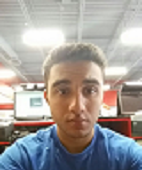
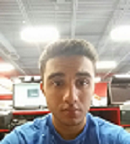
Fully implemented easter egg. Pictures change when user hovers over the image.

diff --git a/src/main/java/ca/yorku/cse2311/tab2pdf/ui/component/AboutJFrame.java b/src/main/java/ca/yorku/cse2311/tab2pdf/ui/component/AboutJFrame.java
@@ -3,12 +3,8 @@ package ca.yorku.cse2311.tab2pdf.ui.component;
 import javax.imageio.ImageIO;
 import javax.swing.*;
 
-import ca.yorku.cse2311.tab2pdf.ui.listener.AboutListener;
 
 import java.awt.*;
-import java.awt.event.ActionEvent;
-import java.awt.event.ActionListener;
-import java.awt.event.MouseAdapter;
 import java.awt.event.MouseEvent;
 import java.awt.event.MouseListener;
 import java.io.IOException;
@@ -21,13 +17,13 @@ import java.util.logging.Logger;
  * @author Marco
  * @since 2015-04-04
  */
-public class AboutJFrame extends JFrame implements MouseListener {
+public class AboutJFrame extends JFrame {
 
     private final static Logger LOG = Logger.getLogger(AboutJFrame.class.getName());
 
     private static final String[][] CONTRIBUTORS = {
             // Name                          Email                       Picture1				Picture2
-            {"Brody Atto",              "brodyatto@gmail.com",          "about/brody.jpg"		, ""},
+            {"Brody Atto",              "brodyatto@gmail.com",          "about/brody.jpg"		, "about/brody2.jpg"},
             {"Marco Pietro Cirillo",    "cirillom@my.yorku.ca",         "about/marco1.png"		, "about/marco2.png"},
             {"Deep Patel",              "deep0410@my.yorku.ca",         "about/deep1.png"		, "about/deep2.png"},
             {"Varsha Ragavendran",      "varsha_raghav@hotmail.com",    "about/varsha1.JPG"		, "about/varsha2.JPG"},
@@ -43,43 +39,42 @@ public class AboutJFrame extends JFrame implements MouseListener {
 
     public static final Dimension PICTURE_SIZE = new Dimension(150, 150);
     
-    private boolean isStoic = false;
 
     public AboutJFrame() throws HeadlessException {
 
         super("About Tab2Pdf");
-        
-        String[] smilePictures = new String[CONTRIBUTORS[3].length];
 
         getContentPane().setLayout(new GridLayout(3, 2));
         
         for (String[] row : CONTRIBUTORS) {
-            getContentPane().add(createRow(row[0], row[1], row[2])); 
-            this.isStoic = false;
+            getContentPane().add(createRow(row[0], row[1], row[2], row[3])); 
+            
         }
-        for (int i = 0; i < CONTRIBUTORS[3].length ; i++){
-        	smilePictures[i] = CONTRIBUTORS[3][i];
-        }
+     
     }
 
-    private static JPanel createRow(String name, String email, String image) {
+    private static JPanel createRow(String name, String email, String image1, String image2) {
         JPanel result = new JPanel();
+        final JLabel j;
+        final String firstImage = image1;
+        final String secondImage = image2;
 
         result.setLayout(new GridBagLayout());
 
-        JButton pic = new JButton("Failed to load image");
+        JLabel stoicFace = new JLabel("Failed to load image");
+        //JLabel happyFace = new JLabel("Failed to laod image");
         try {   // attempt to load the image of this contributor
-            pic = new JButton(new ImageIcon(ImageIO.read(ClassLoader.getSystemResource(image))));
+            stoicFace = new JLabel(new ImageIcon(ImageIO.read(ClassLoader.getSystemResource(image1))));
+            //happyFace = new JLabel(new ImageIcon(ImageIO.read(ClassLoader.getSystemResource(image2))));
         } catch (IOException e) {
-            LOG.log(Level.WARNING, "Could not set about picture "+image, e);
+            LOG.log(Level.WARNING, "Could not set about picture "+image1, e);
+            //LOG.log(Level.WARNING, "Could not set about picture "+image2, e);
+
         }
-
+        
         // Set size of picture, so they look uniform
-        pic.setMinimumSize(PICTURE_SIZE);
-        pic.setPreferredSize(PICTURE_SIZE);
-
-        // Add picture
-        result.add(pic, PIC_CONSTRAINTS);
+        stoicFace.setMinimumSize(PICTURE_SIZE);
+        stoicFace.setPreferredSize(PICTURE_SIZE);
 
         // Add name
         JLabel nameLabel = new JLabel(name);
@@ -91,48 +86,39 @@ public class AboutJFrame extends JFrame implements MouseListener {
         emailLabel.setVerticalAlignment(SwingConstants.TOP);
         result.add(emailLabel, EMAIL_CONSTRAINTS);
         
-//        MouseListener mouseClicked = new MouseListener{
-//        	@Override
-//        	public void mouseClicked(MouseEvent e) {
-//        		// TODO Auto-generated method stub
-//        		
-//        	}
-//        };
-		pic.addMouseListener(new MouseAdapter() { 
-	          public void mousePressed(MouseEvent e) { 
-	             
-	            } 
-	          });
-        return result;
+        j = stoicFace;
+        
+		j.addMouseListener(new MouseListener() { 
+			
+            public void mouseReleased(MouseEvent arg0) {}           
+            
+            public void mousePressed(MouseEvent arg0) {}            
+            
+            public void mouseExited(MouseEvent arg0) { 
+            	try {   // attempt to load the image of this contributor
+                    j.setIcon(new ImageIcon(ImageIO.read(ClassLoader.getSystemResource(firstImage))));
+                } catch (IOException e) {
+                    LOG.log(Level.WARNING, "Could not set about picture "+firstImage, e);
+                }
+            }           
+            
+            public void mouseEntered(MouseEvent arg0) {
+                
+                try {   // attempt to load the image of this contributor
+                    j.setIcon(new ImageIcon(ImageIO.read(ClassLoader.getSystemResource(secondImage))));
+                } catch (IOException e) {
+                    LOG.log(Level.WARNING, "Could not set about picture "+secondImage, e);
+                }
+                
+            	
+            }           
+           
+            public void mouseClicked(MouseEvent arg0) {} } 
+			  
+		);
+		// Add picture
+        result.add(stoicFace, PIC_CONSTRAINTS);
+        
+		return result;
     }
-
-	@Override
-	public void mouseClicked(MouseEvent e) {
-		
-		
-	}
-
-	@Override
-	public void mousePressed(MouseEvent e) {
-		// TODO Auto-generated method stub
-		
-	}
-
-	@Override
-	public void mouseReleased(MouseEvent e) {
-		// TODO Auto-generated method stub
-		
-	}
-
-	@Override
-	public void mouseEntered(MouseEvent e) {
-		// TODO Auto-generated method stub
-		
-	}
-
-	@Override
-	public void mouseExited(MouseEvent e) {
-		// TODO Auto-generated method stub
-		
-	}
 }
